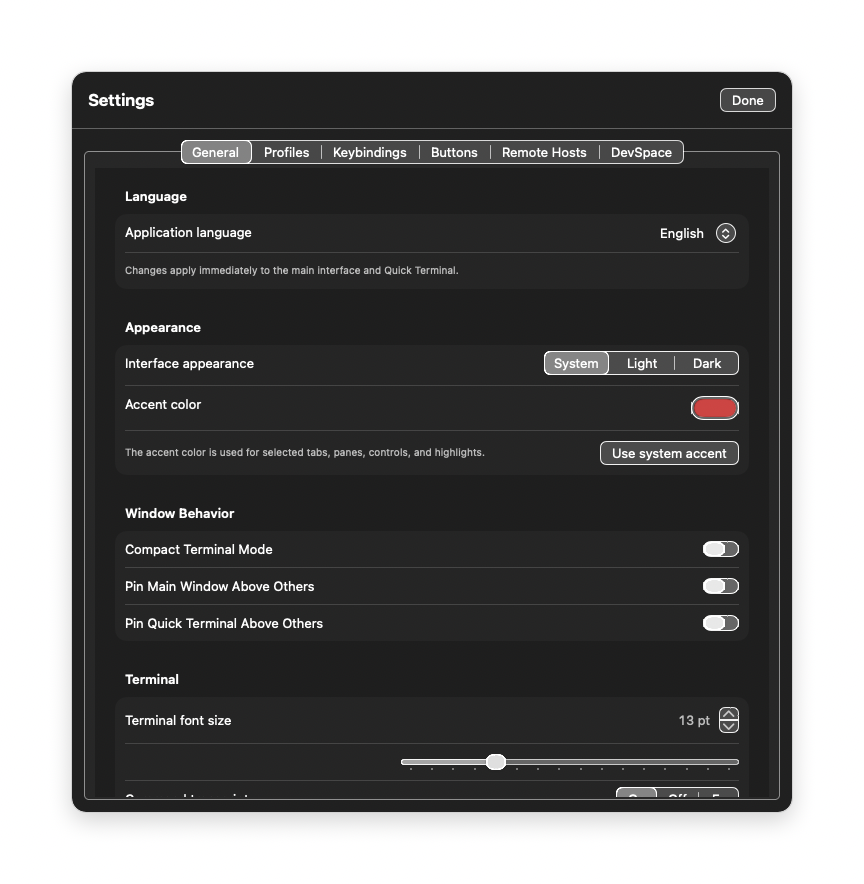
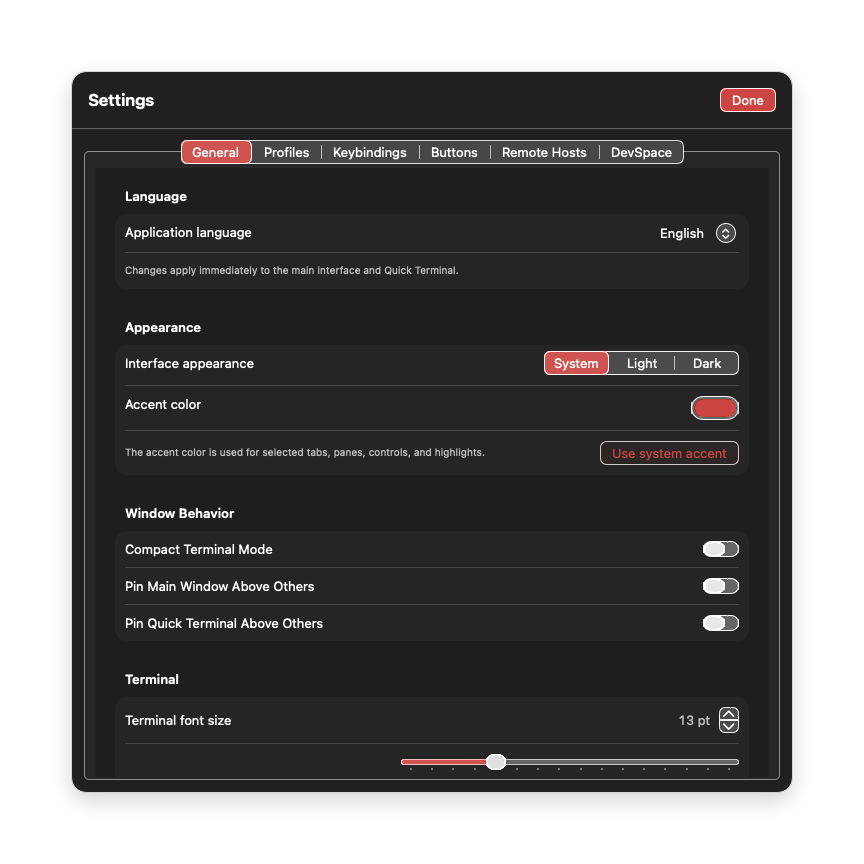
fix: polish README settings and compact tab captures

diff --git a/Sources/ApexTermApp/RootView.swift b/Sources/ApexTermApp/RootView.swift
@@ -3040,9 +3040,11 @@ struct RootView: View {
             model.selectSession(firstSession)
         }
 
-        model.isCompactMode = scene == "compact"
+        // The compact README scene demonstrates narrow responsive tabs, not
+        // Compact Terminal Mode, whose tab strip lives outside contentView.
+        model.isCompactMode = false
         let contentSize = scene == "compact"
-            ? CGSize(width: 760, height: 430)
+            ? CGSize(width: 420, height: 430)
             : CGSize(width: 1_180, height: 720)
         mainWindow?.setContentSize(contentSize)
         mainWindow?.center()
@@ -3061,6 +3063,12 @@ struct RootView: View {
         }
 
         try? await Task.sleep(for: .milliseconds(scene == "overview" ? 900 : 1_300))
+        if scene == "settings", let settingsWindow = mainWindow?.attachedSheet {
+            settingsWindow.setContentSize(CGSize(width: 720, height: 720))
+            settingsWindow.displayIfNeeded()
+            settingsWindow.contentView?.layoutSubtreeIfNeeded()
+            try? await Task.sleep(for: .milliseconds(250))
+        }
         if scene == "overview" || scene == "compact" {
             mainWindow?.setContentSize(contentSize)
             mainWindow?.center()
